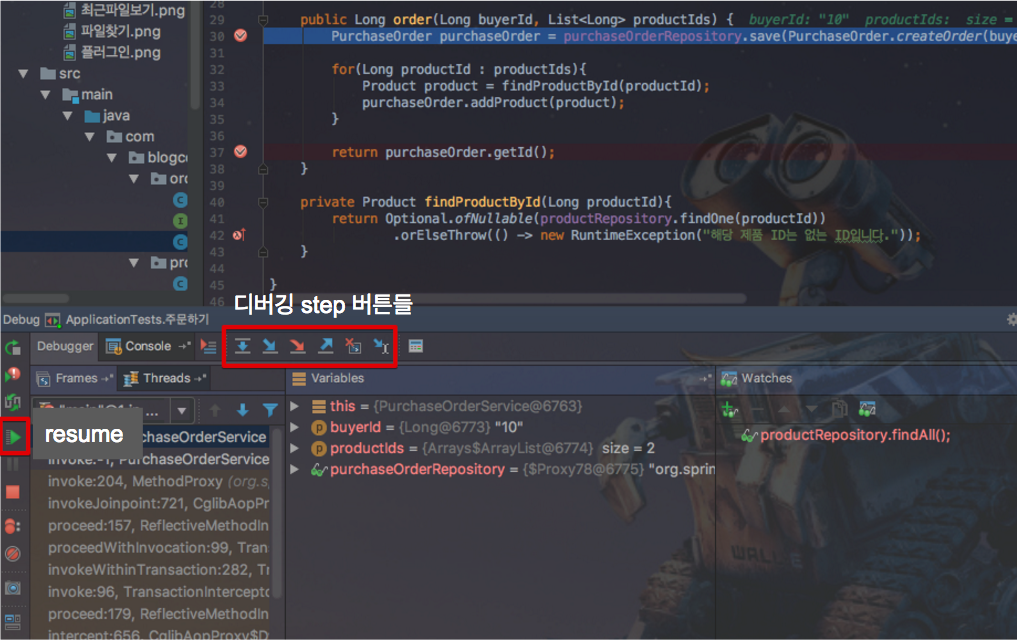
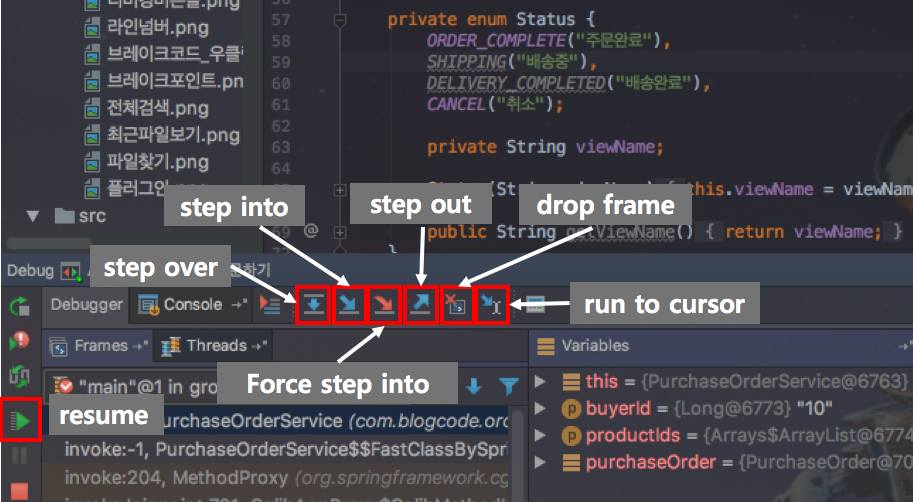
[intellij-debugging] 완성

diff --git a/intellij-debugging/src/main/java/com/blogcode/order/PurchaseOrder.java b/intellij-debugging/src/main/java/com/blogcode/order/PurchaseOrder.java
@@ -16,7 +16,6 @@ import java.util.List;
  */
 
 @Entity
-@Getter
 @NoArgsConstructor
 public class PurchaseOrder {
 
@@ -69,5 +68,21 @@ public class PurchaseOrder {
         public String getViewName() {
             return viewName;
         }
+    }
+
+    public Long getId() {
+        return id;
+    }
+
+    public Long getBuyerId() {
+        return buyerId;
+    }
+
+    public List<Product> getProducts() {
+        return products;
+    }
+
+    public Status getStatus() {
+        return status;
     }
 }

diff --git a/intellij-debugging/README.md b/intellij-debugging/README.md
@@ -1,6 +1,6 @@
 # Intellij-debugging
 
-안녕하세요? 이번 시간엔 intellij-debugging 예제를 진행해보려고 합니다.  
+안녕하세요? 이번 시간엔 intellij의 debugging 을 간단하게 진행해보려고 합니다.  
 모든 코드는 [Github](https://github.com/jojoldu/blog-code/tree/master/intellij-debugging)에 있기 때문에 함께 보시면 더 이해하기 쉬우실 것 같습니다.  
 (공부한 내용을 정리하는 [Github](https://github.com/jojoldu/blog-code)와 세미나+책 후기를 정리하는 [Github](https://github.com/jojoldu/review), 이 모든 내용을 담고 있는 [블로그](http://jojoldu.tistory.com/)가 있습니다. )<br/>
   
@@ -35,7 +35,7 @@
 
 ![단축키](./images/플러그인.png)
 
-설치하면 내가 클릭한 기능의 단축키를 바로 보여준다.  
+설치하면 **내가 클릭한 기능의 단축키**를 바로 보여준다.  
 
 ![keypromoter](./images/keypromoter.png)
 
@@ -55,7 +55,7 @@
 
 ![Break Point](./images/브레이크포인트.png)
 
-어플리케이션이 ```debug``` 모드일때, 해당 Break Point가 실행되는 시점에서 멈추게 된다.  
+어플리케이션이 ```debug``` 모드일때, 해당 Break Point가 지정된 라인이 실행되는 시점에서 멈추게 된다.  
 이때 여러 값을 확인하고, 명령어를 실행하면서 디버깅을 시작하면 된다.   
 추가로 여기서 **Break Point를 우클릭** 하면 **조건으로 break**를 걸 수가 있다.  
 (굉장히 중요함)
@@ -75,8 +75,6 @@
 
 (break가 된 상태에서만 사용 가능하다)  
 
-가장 좌측에 있는 resume 버튼은 이클립스의 resume(```F8```)과 동일한 기능이다.
-
 ### resume
 
 * 단축키 : ```option+command+r```
@@ -84,8 +82,14 @@
 
 ![step over1](./images/stepover1.png)
 
+첫번째 break point에서
+
 ![resume2](./images/resume2.png)
 
+다음 break point로 이동한다.  
+  
+이클립스의 resume(```F8```)과 동일한 기능이다.  
+  
 step 버튼들은 왼쪽에서 오른쪽 순으로 하겠다.
 
 ### step over
@@ -104,7 +108,7 @@ break 걸린 라인을 전부 실행 후, 다음라인으로 이동한다.
 ### step into
 
 * 단축키 : ```F7```
-* 기능 : 현재 break 된 라인에서 **다음 실행되는 라인**으로 이동
+* 기능 : 현재 break 된 라인에서 **실행하고 있는 라인**으로 이동한다.
 
 ![step into1](./images/stepinto1.png)
 
@@ -118,12 +122,63 @@ break 걸린 라인에서 다음 실행될 코드는 ```PurchaseOrder.createOrde
 ### Force step into
 
 * 단축키 : ```option+shift+F7```
-* 기능 : 다음 실행되는 라인으로 이동하나, ```step into```와 달리 직접 생성한 클래스 외에 JDK 라이브러리, lombok 라이브러리 등의 내부까지 이동한다.
+* 기능 : 다음 실행되는 라인으로 이동하나, ```step into```와 달리 ```Stepping```을 무시하고 진행한다.  
+  
+예를 들어, ```command+shift+a``` -> ```stepping```으로 설정창을 오픈후,
+
+![step 설정](./images/step설정.png)
+
+아래처럼 ```skip simple getters```를 **체크** 하자.
+
+![step 설정2](./images/step설정2.png)
+
+이렇게 한 뒤, ```getter``` 메소드를 호출하는 곳에 break point를 지정한 후,
+
+![force step into](./images/force1.png)
+
+번갈아가며 step into와 force step into를 입력해보자.  
+  
+**step into**(```F7```)
+
+![force2](./images/force2.png)
+
+이렇게 메소드 invoke 영역으로 바로 이동한다.  
+  
+반면에  
+  
+**force step into**(```option+shift+F7```)  
+
+![force3](./images/force3.png)
+
+설정과 무관하게 ```getter``` 메소드까지 이동한다.  
+굳이 확인이 불필요한 ```getter```, ```생성자``` 등에 skip 옵션을 설정한 뒤, **skip이 필요할때는 step into**로, **전부 확인이 필요하다면 force step into**로 이동하면서 디버깅 하면 된다.
 
 ### Step out
 
 * 단축키 : ```shift+F8```
-* 기능 : 
+* 기능 : 현재 break 된 라인에서 **호출한 곳으로 이동**한다.
+
+![step over1](./images/stepover1.png)
+
+step into 로 ```createOrder``` 메소드로 이동 후, 
+
+![step into2](./images/stepinto2.png)
+
+step out의 단축키인 ```shift+F8```을 입력하면,
+
+![step out3](./images/stepout3.png)
+
+메소드를 빠져나오게 된다.  
+  
+보통은 ```step into```로 **파고들어간 라인을 빠져나오려할때** 많이 사용한다.
+
+### Drop Frame
+
+* 단축키 : 없음
+* 기능 : **call stack을 거슬러 올라간다**.
+
+이것만 보면 step out과 별차이 없어 보이는데, 큰 차이점은 step out은 해당 라인이 **실행된 후 돌아**가지만, drop frame은 해당 라인이 **실행되기 전에** 돌아간다.
+
 
 ### Run to Cursor
 
@@ -146,8 +201,60 @@ break 걸린 라인에서 다음 실행될 코드는 ```PurchaseOrder.createOrde
   
 보통 break point로 지정하지 않고, **단발성으로 break를 걸고 싶을때** 사용한다. 
 
-## Watch와 콜스택
- 
-기본적으로 IntelliJ는 break된 상태에서 **break 라인에서 사용할 수 있는 모든 코드를 사용**할 수 있다.  
+## Watch와 Call Stack
+
+break point와 디버그 버튼들로 break line을 사용하는 법과 이동하는 법을 배웠다.  
+이제는 break된 라인에서 어떤 일이 가능한지 확인하겠다.
 
 ### Watch
+
+intelliJ는 break된 상태에서 **해당 라인에서 사용할 수 있는 모든 코드를 사용**할 수 있다.  
+사용법은 간단하다.  
+먼저 디버그 모드에서 아래처럼 watch를 활성화 시키자.
+
+![watch1](./images/watch1.png)
+
+![watch2](./images/watch2.png)
+
+위 클릭을 따라가면 아래와 같은 형태가 된다.
+
+![watch3](./images/watch3.png)
+
+우측 하단에 있는 ```watches```에서 우리는 마음껏 디버깅 코드를 작성해보면 된다.  
+예를 들어, ```purchaseOrderRepository.save``` 기능이 잘 수행되었는지 확인하기 위해, 아래와 같이 확인해볼 수 있다.
+
+![watch4](./images/watch4.png)
+
+**해당 라인에서 가능한 모든 값, 메소드를 사용**할 수 있다.  
+단순한 변수값부터 시작해서 ```Autowired```된 코드까지 전부 사용가능하다.  
+
+### Call Stack
+
+디버깅 화면의 좌측 하단에는 해당 **break line에 오기까지의 call stack 이 출력**된다.  
+이를 통해 이전에 어떤 값들이 넘어 온것인지, 이전에 다른 연산을 했으면 어떻게 값이 바뀔지를 모두 확인할 수 있다.  
+  
+예를 들어, ```order``` 메소드를 호출한 ```test``` 코드의 값을 확인하고 몇가지 연산식을 사용한다고 하자.  
+  
+좌측 하단의 Call Stack에서 찾고자 하는 코드라인을 클릭하면 해당 라인으로 이동하게 된다.
+
+![call1](./images/call1.png)
+
+이동후에는, break line에서 했던것 처럼 ```Variables```와 ```Watches```를 이용해 확인하고자 하는 값과 코드를 확인하면 된다.
+  
+특히 Spring과 같은 **프레임워크에서 어떻게 코드가 실행되고 값이 변경되는지 확인**할때 굉장히 유용하게 사용된다.  
+
+
+## 후기
+
+이미 많은 분들이 아실 수 있겠지만, 적지 않은 분들이 **break point와 resume 버튼만 사용**하는 것을 보게 되었습니다.  
+조금이나마 IntelliJ로 디버깅하시는데 도움이 되셨으면 하는 바램입니다.  
+
+IntelliJ는 정말 좋은 툴입니다.  
+이외에도 많은 기능들이 담겨 있기에 공유할만한 내용들이 발견될때마다 꼭 정리해서 남기도록 하겠습니다.  
+  
+끝까지 읽어주셔서 감사합니다^^ 
+
+
+
+
+
